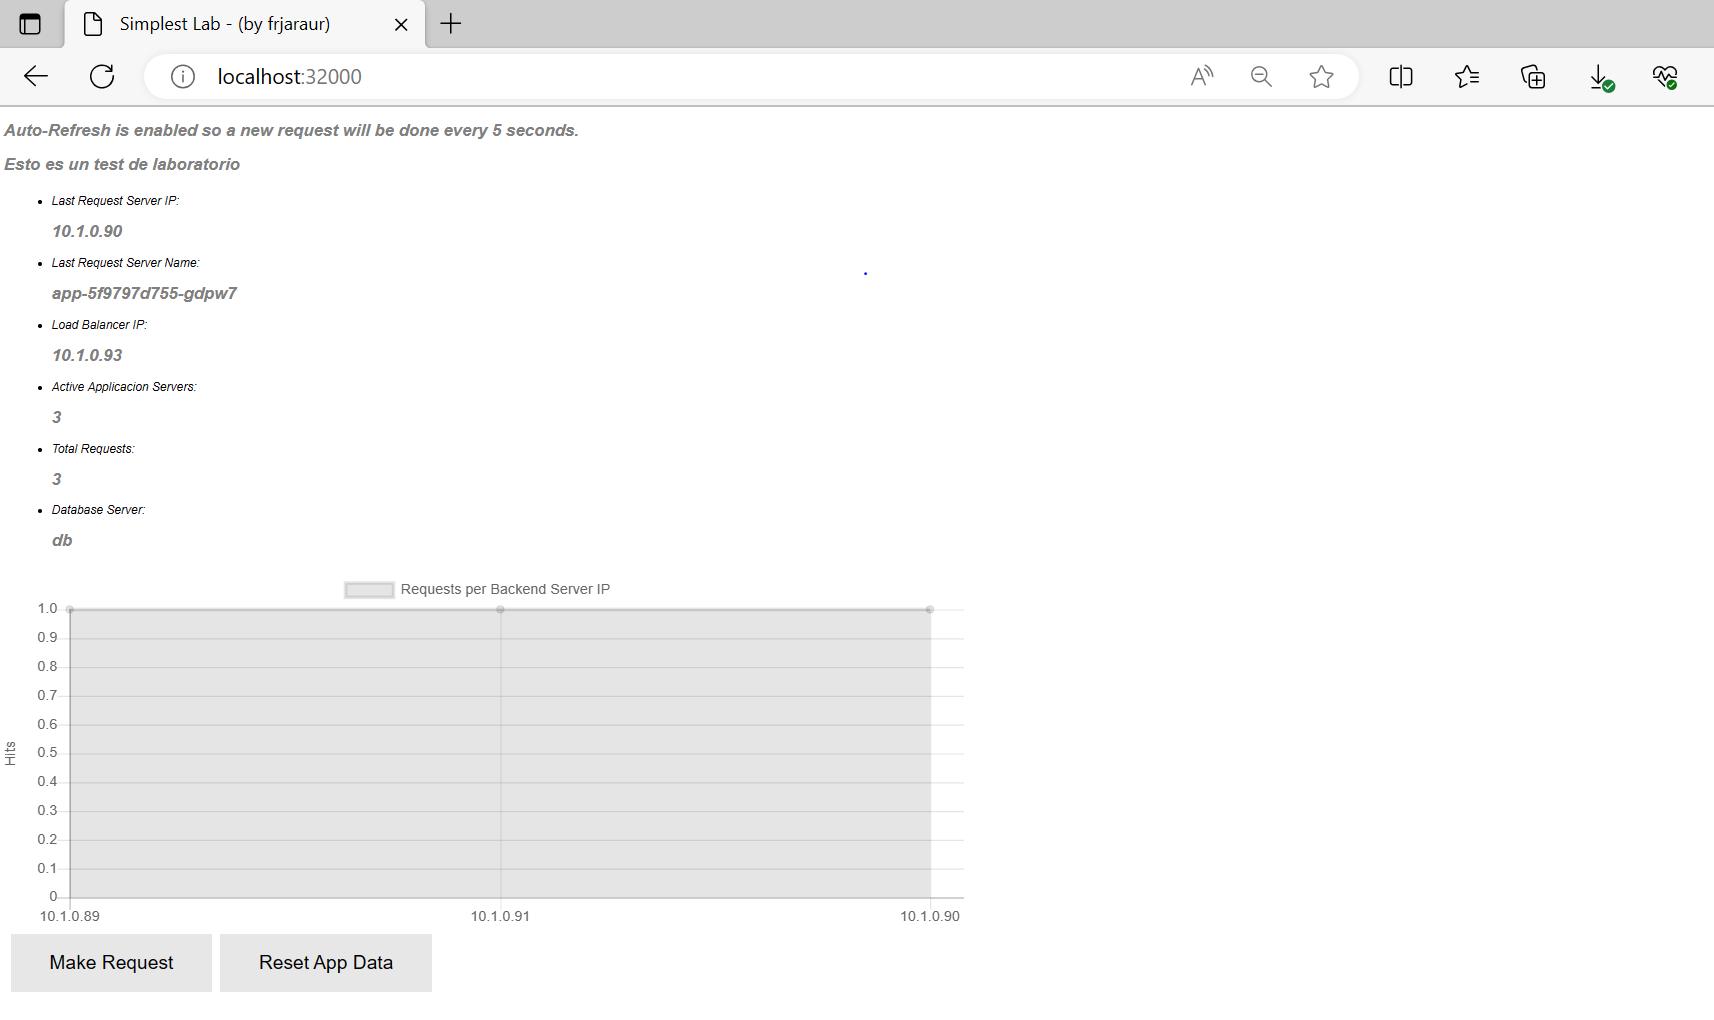
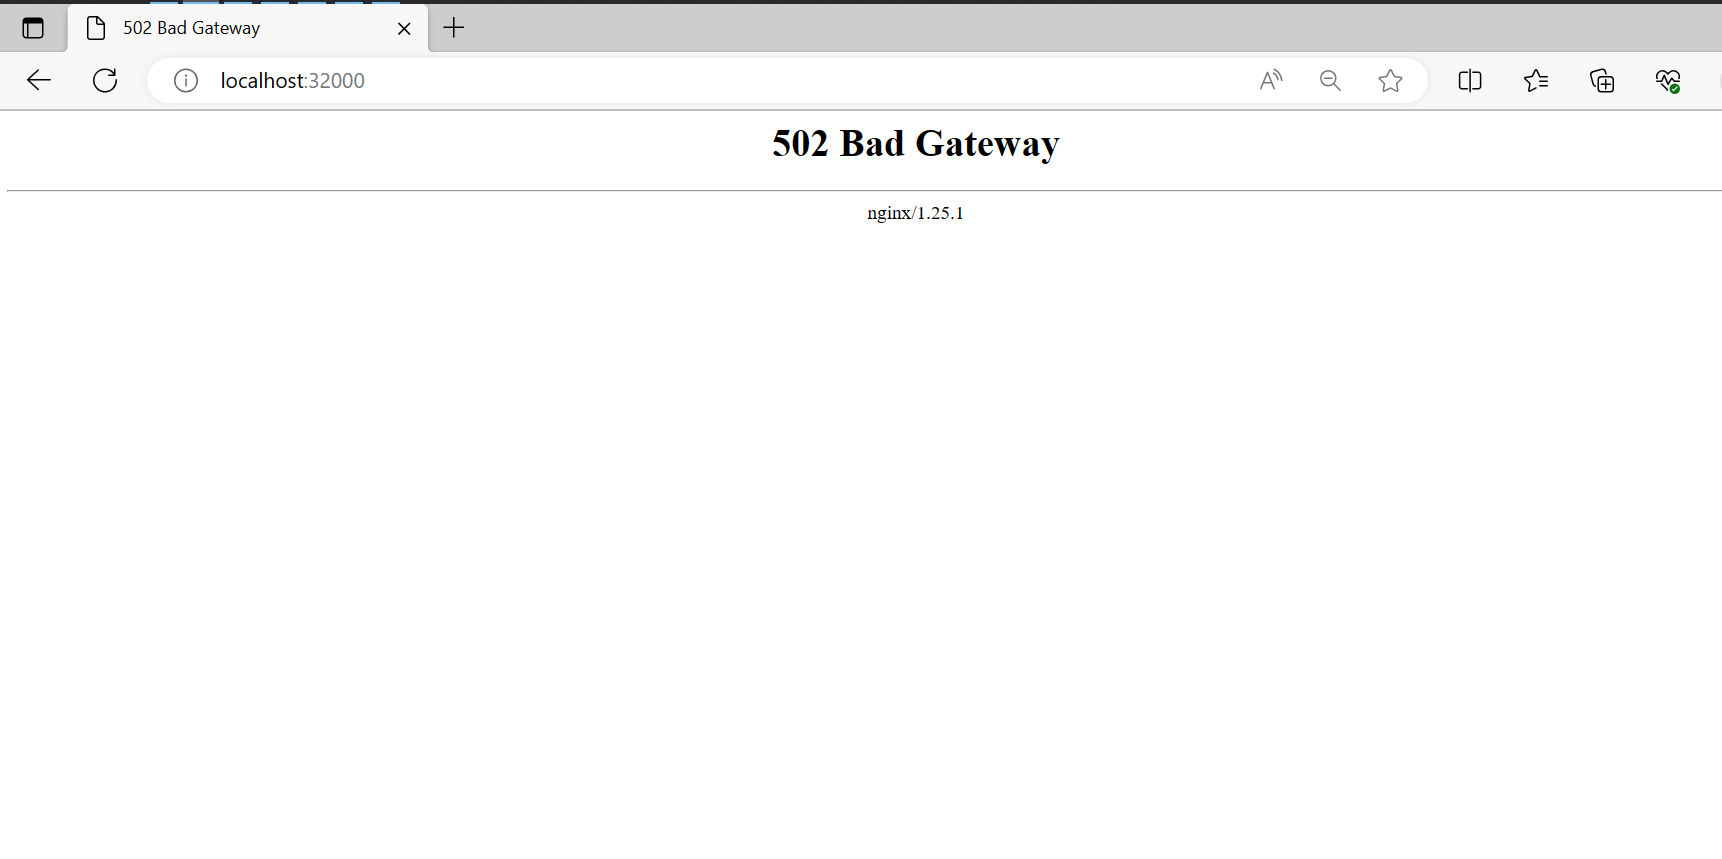
Added remove app service

diff --git a/Chapter10/Readme.md b/Chapter10/Readme.md
@@ -493,7 +493,28 @@ kubernetes   ClusterIP   10.96.0.1       <none>        443/TCP        12d
 lb           NodePort    10.108.36.202   <none>        80:32000/TCP   4m24s
 ```
 
-For this new service, we have already created a new ConfigMap manifest, ___lb.configmap.for-app2-service.yaml___:
+We remove the old app service:
+```
+$ kubectl delete svc app
+service "app" deleted
+```
+
+The application isn't accesible now at http://localhost:32000):
+![applicationGUI](images/Figure2.PNG)
+
+Or using the command-line with curl:
+```
+$ curl http://localhost:32000
+<html>
+<head><title>502 Bad Gateway</title></head>
+<body>
+<center><h1>502 Bad Gateway</h1></center>
+<hr><center>nginx/1.25.1</center>
+</body>
+</html>
+```
+
+We will now configure the new app2 service. We have already created a new ConfigMap manifest, ___lb.configmap.for-app2-service.yaml___:
 ```
 apiVersion: v1
 kind: ConfigMap
@@ -625,7 +646,7 @@ http {
 ```
 
 As you can see, the ConfigMap's content was now updated inside the container and the application now still works, but this time using ___app2___ Service, as we can verify (if using Docker Desktop you will need to use http://localhost:32000):
-![applicationGUI](images/Figure2.PNG)
+![applicationGUI](images/Figure3.PNG)
 
 
 
